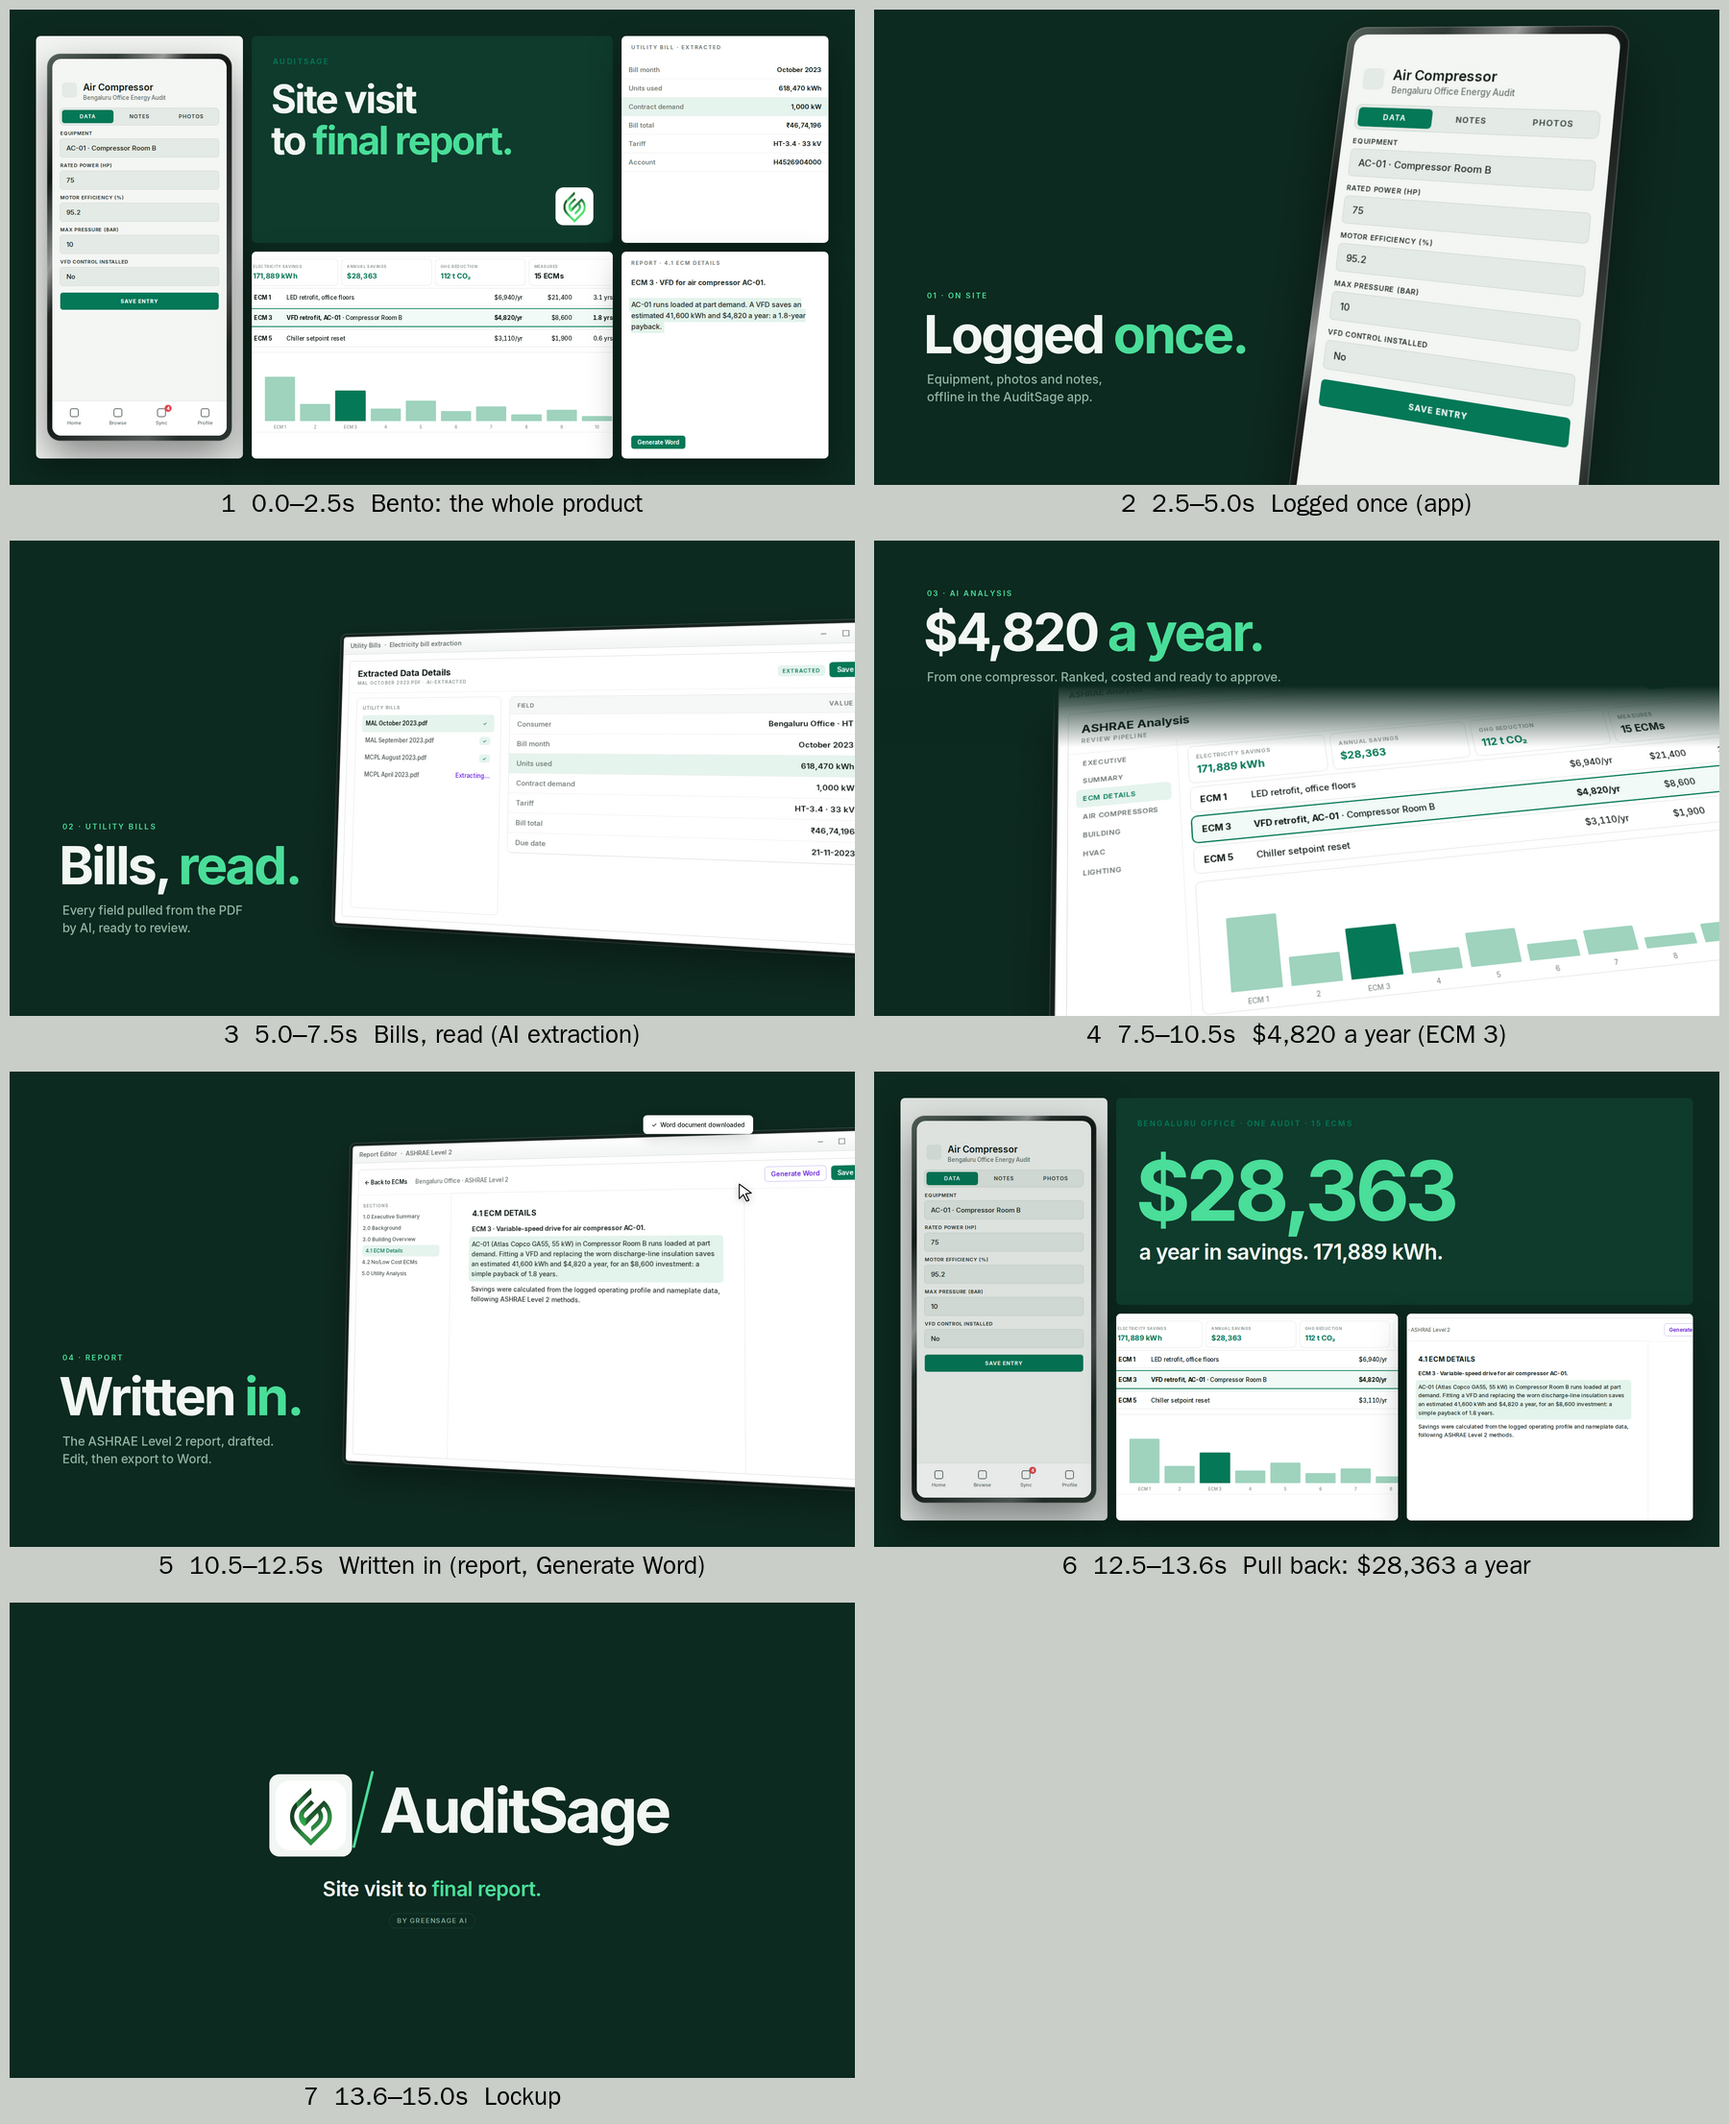
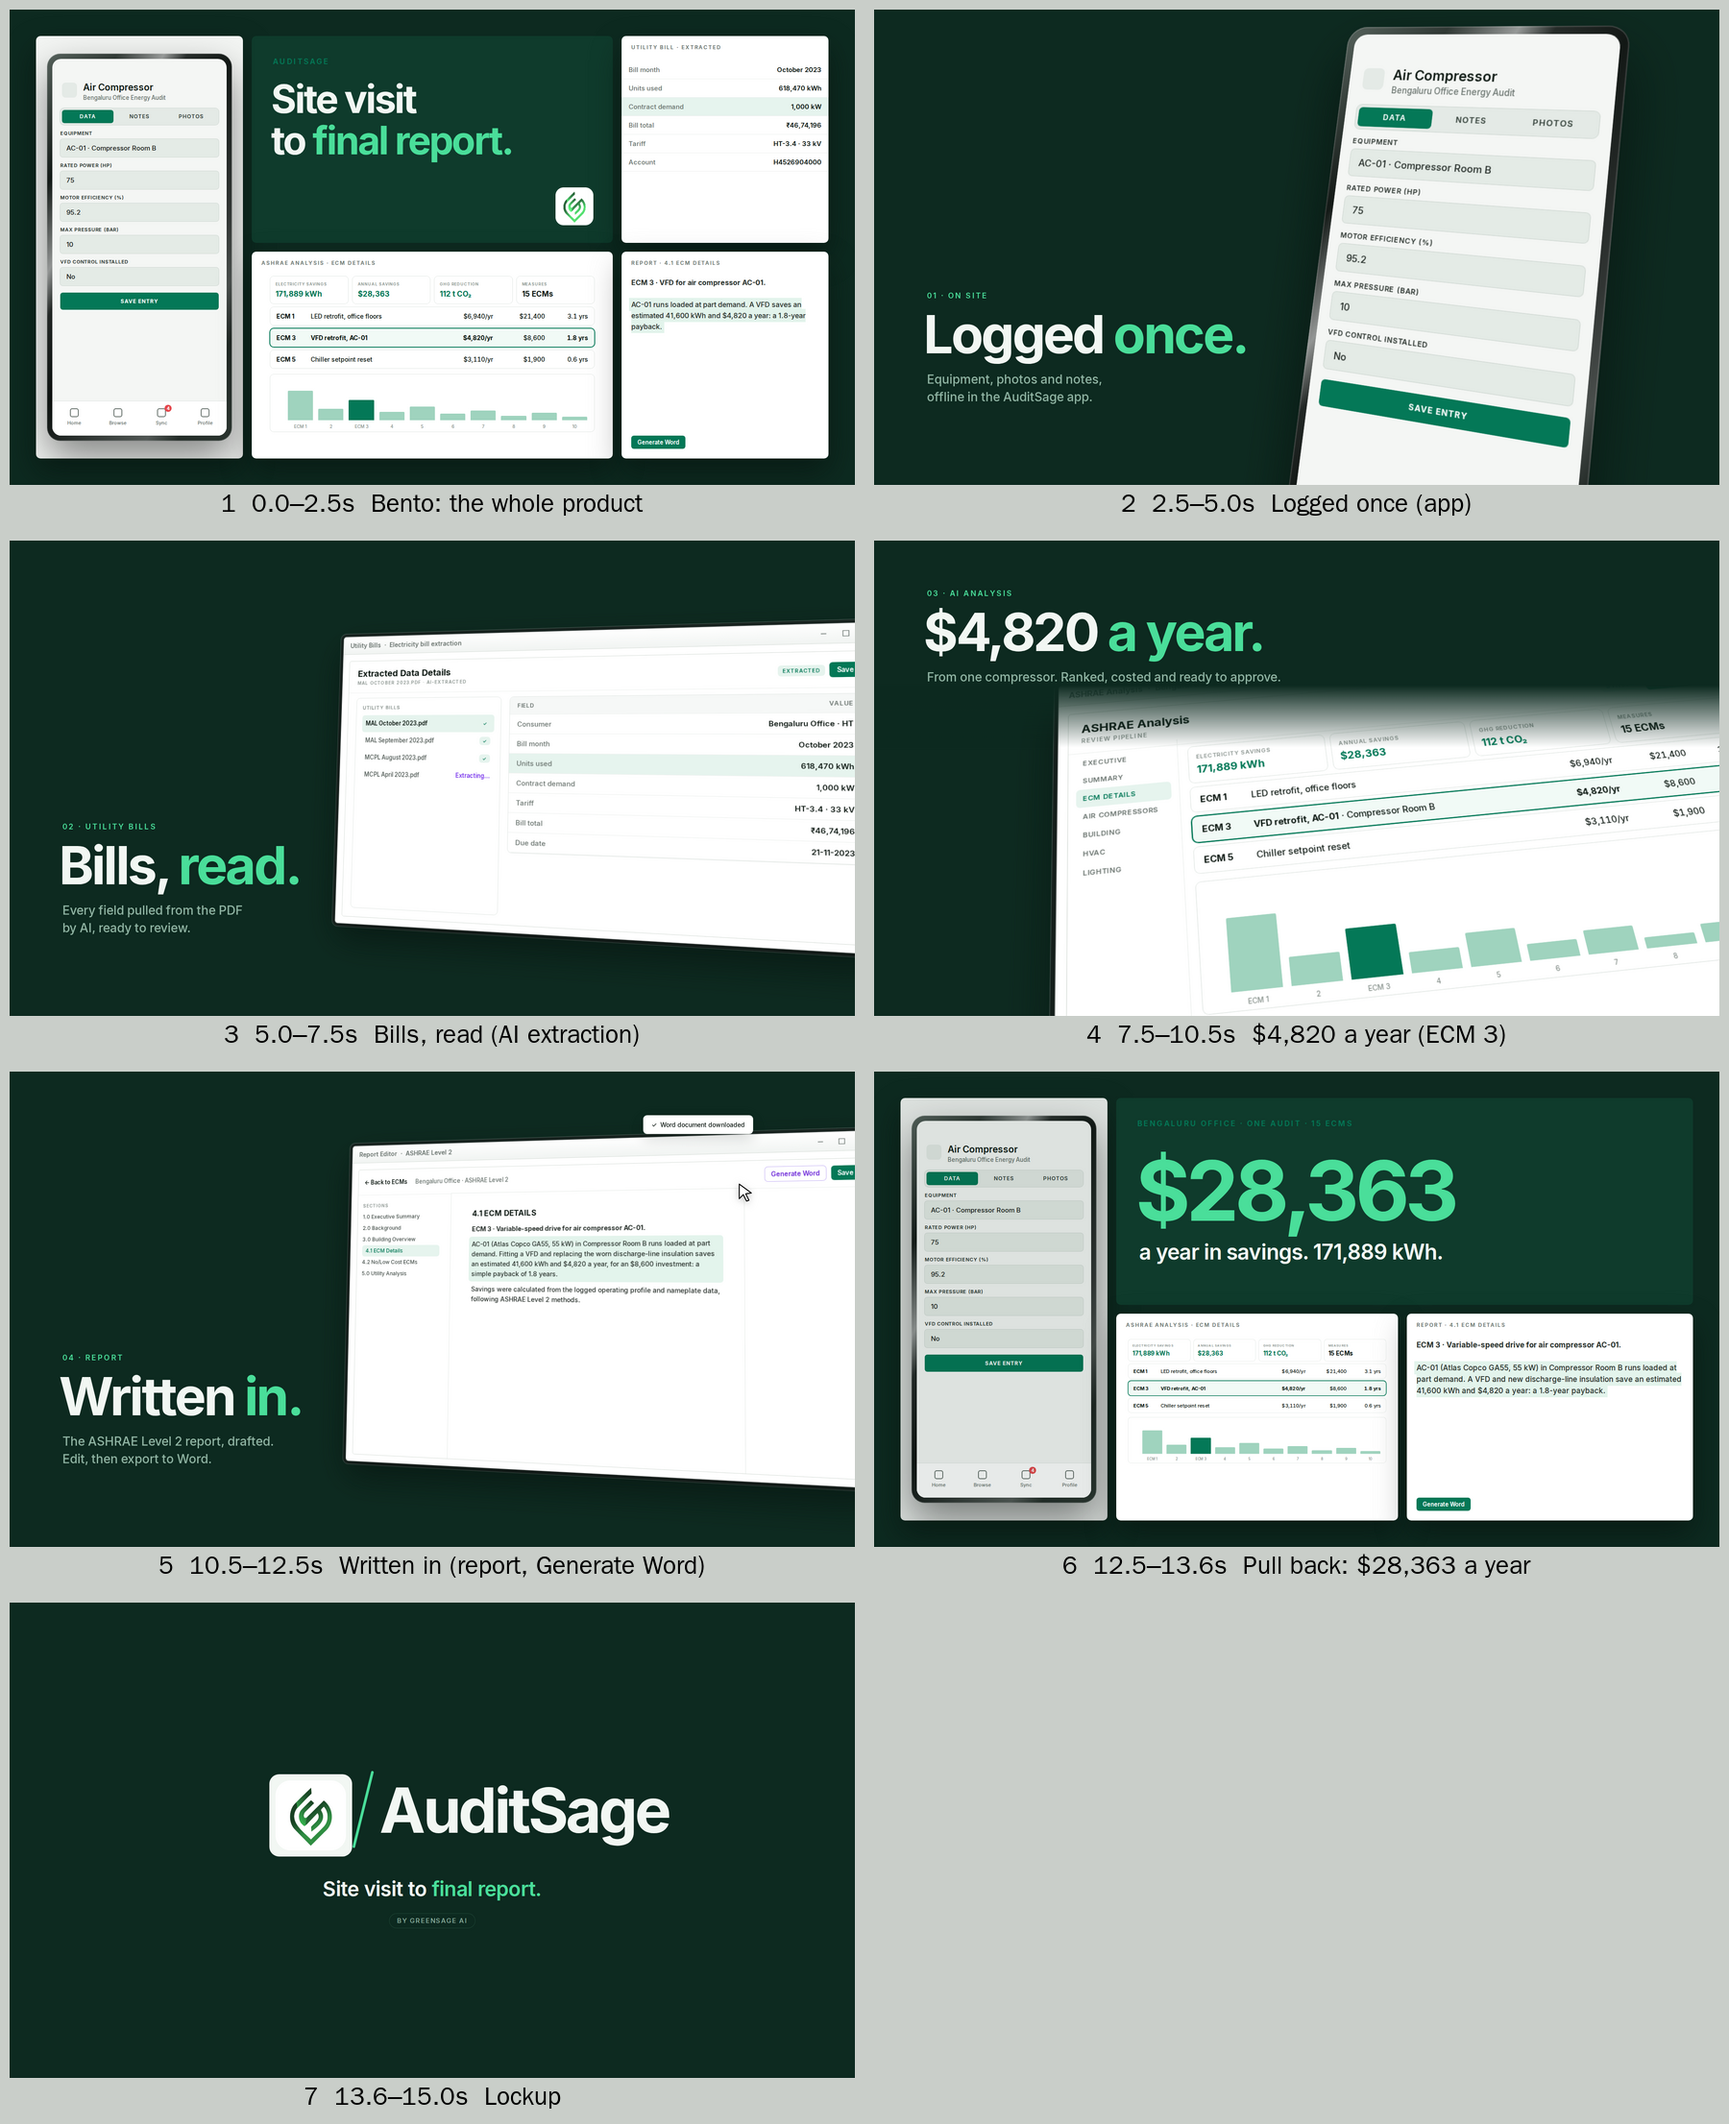
AuditSage storyboard: bento tiles fit the ECM analysis and report without clipping
Claude-Session: https://claude.ai/code/session_01N6SAp883XGMwBKYGBCyKw5

Changed region(s): [[0.6533, 0.6239, 0.9644, 0.7175], [0.1556, 0.1248, 0.3422, 0.2184]]

diff --git a/auditsage/docs/storyboard/v3.html b/auditsage/docs/storyboard/v3.html
@@ -146,7 +146,13 @@ html,body { margin:0; }
     <p class="hl">AC-01 (Atlas Copco GA55, 55 kW) in Compressor Room B runs loaded at part demand. Fitting a VFD and replacing the worn discharge-line insulation saves an estimated 41,600 kWh and $4,820 a year, for an $8,600 investment: a simple payback of 1.8 years.</p>
     <p>Savings were calculated from the logged operating profile and nameplate data, following ASHRAE Level 2 methods.</p>
   </div></div></div></template>
-<template id="t-bills"><div class="win" style="width:1120px;height:640px"><div class="tb"><span>Utility Bills&nbsp;&nbsp;·&nbsp;&nbsp;Electricity bill extraction</span><svg width="96" height="12"><use href="#ctl"/></svg></div><div class="wbody">
+<template id="t-analysis-compact"><div style="width:780px;padding:56px 22px 22px;box-sizing:border-box">
+  <div class="kpis"><div class="kpi"><small>Electricity savings</small><b style="color:var(--accent)">171,889 kWh</b></div><div class="kpi"><small>Annual savings</small><b style="color:var(--accent)">$28,363</b></div><div class="kpi"><small>GHG reduction</small><b style="color:var(--accent)">112 t CO₂</b></div><div class="kpi"><small>Measures</small><b>15 ECMs</b></div></div>
+  <div class="ecm"><b>ECM 1</b><span>LED retrofit, office floors</span><span class="num">$6,940/yr</span><span class="num">$21,400</span><span class="num">3.1 yrs</span></div>
+  <div class="ecm hi"><b>ECM 3</b><span><b>VFD retrofit, AC-01</b></span><span class="num"><b>$4,820/yr</b></span><span class="num">$8,600</span><span class="num"><b>1.8 yrs</b></span></div>
+  <div class="ecm"><b>ECM 5</b><span>Chiller setpoint reset</span><span class="num">$3,110/yr</span><span class="num">$1,900</span><span class="num">0.6 yrs</span></div>
+  <div class="chart" style="height:130px;padding-top:18px"><div class="bar" style="height:78%"><small>ECM 1</small></div><div class="bar" style="height:30%"><small>2</small></div><div class="bar hi" style="height:54%"><small>ECM 3</small></div><div class="bar" style="height:22%"><small>4</small></div><div class="bar" style="height:36%"><small>5</small></div><div class="bar" style="height:18%"><small>6</small></div><div class="bar" style="height:26%"><small>7</small></div><div class="bar" style="height:12%"><small>8</small></div><div class="bar" style="height:20%"><small>9</small></div><div class="bar" style="height:9%"><small>10</small></div></div>
+</div></template><template id="t-bills"><div class="win" style="width:1120px;height:640px"><div class="tb"><span>Utility Bills&nbsp;&nbsp;·&nbsp;&nbsp;Electricity bill extraction</span><svg width="96" height="12"><use href="#ctl"/></svg></div><div class="wbody">
   <div class="an-head"><div><h4>Extracted Data Details</h4><small>MAL OCTOBER 2023.PDF · AI-EXTRACTED</small></div><div><span class="pill s">EXTRACTED</span>&nbsp;&nbsp;<span class="pill g">Save</span></div></div>
   <div style="position:absolute;left:20px;top:84px;width:330px;bottom:20px;border-radius:8px;box-shadow:0 0 0 1px #E3E8E5;padding:14px;box-sizing:border-box;font:500 13px Inter;color:#4C5651">
     <div style="font:600 11px Inter;letter-spacing:.1em;color:#8A948F;margin-bottom:10px">UTILITY BILLS</div>
@@ -175,7 +181,7 @@ html,body { margin:0; }
   </div>
   <div class="tile" style="left:1390px;top:60px;width:470px;height:470px"><div class="cap">Utility bill · extracted</div>
     <div class="fields" style="position:absolute;left:0;top:56px;width:470px"><div class="r"><span>Bill month</span><b>October 2023</b></div><div class="r"><span>Units used</span><b>618,470 kWh</b></div><div class="r hi"><span>Contract demand</span><b>1,000 kW</b></div><div class="r"><span>Bill total</span><b>₹46,74,196</b></div><div class="r"><span>Tariff</span><b>HT-3.4 · 33 kV</b></div><div class="r"><span>Account</span><b>H4526904000</b></div></div></div>
-  <div class="tile" style="left:550px;top:550px;width:820px;height:470px;background:#fff"><div data-t="t-analysis" style="position:absolute;left:-200px;top:-110px;transform:scale(.95);transform-origin:0 0"></div></div>
+  <div class="tile" style="left:550px;top:550px;width:820px;height:470px;background:#fff"><div class="cap">ASHRAE analysis · ECM details</div><div data-t="t-analysis-compact" style="position:absolute;left:20px;top:0"></div></div>
   <div class="tile" style="left:1390px;top:550px;width:470px;height:470px"><div class="cap">Report · 4.1 ECM details</div>
     <div style="position:absolute;left:22px;right:22px;top:58px;font:500 16px/25px Inter;color:#2B332E"><b style="font-weight:700">ECM 3 · VFD for air compressor AC-01.</b><br><br><span style="background:#E3F4EC;box-shadow:0 0 0 5px #E3F4EC">AC-01 runs loaded at part demand. A VFD saves an estimated 41,600 kWh and $4,820 a year: a 1.8-year payback.</span></div>
     <div style="position:absolute;left:22px;bottom:22px" class="pill g">Generate Word</div></div>
@@ -224,8 +230,10 @@ html,body { margin:0; }
     <div style="position:absolute;left:44px;top:110px;font:700 190px/200px Inter;letter-spacing:-.05em;color:#4ADE9A">$28,363</div>
     <div style="position:absolute;left:52px;top:320px;font:600 48px Inter;letter-spacing:-.02em;color:#F2F7F3">a year in savings. 171,889 kWh.</div>
   </div>
-  <div class="tile" style="left:550px;top:550px;width:640px;height:470px"><div data-t="t-analysis" style="position:absolute;left:-200px;top:-110px;transform:scale(.95);transform-origin:0 0"></div></div>
-  <div class="tile" style="left:1210px;top:550px;width:650px;height:470px"><div data-t="t-report" style="position:absolute;left:-230px;top:-40px;transform:scale(.9);transform-origin:0 0"></div></div>
+  <div class="tile" style="left:550px;top:550px;width:640px;height:470px"><div class="cap">ASHRAE analysis · ECM details</div><div data-t="t-analysis-compact" style="position:absolute;left:10px;top:14px;transform:scale(.795);transform-origin:0 0"></div></div>
+  <div class="tile" style="left:1210px;top:550px;width:650px;height:470px"><div class="cap">Report · 4.1 ECM details</div>
+    <div style="position:absolute;left:22px;right:22px;top:58px;font:500 17px/26px Inter;color:#2B332E"><b style="font-weight:700">ECM 3 · Variable-speed drive for air compressor AC-01.</b><br><br><span style="background:#E3F4EC;box-shadow:0 0 0 5px #E3F4EC">AC-01 (Atlas Copco GA55, 55 kW) in Compressor Room B runs loaded at part demand. A VFD and new discharge-line insulation save an estimated 41,600 kWh and $4,820 a year: a 1.8-year payback.</span></div>
+    <div style="position:absolute;left:22px;bottom:22px" class="pill g">Generate Word</div></div>
 </div>
 
 <!-- 7 · Lockup -->
